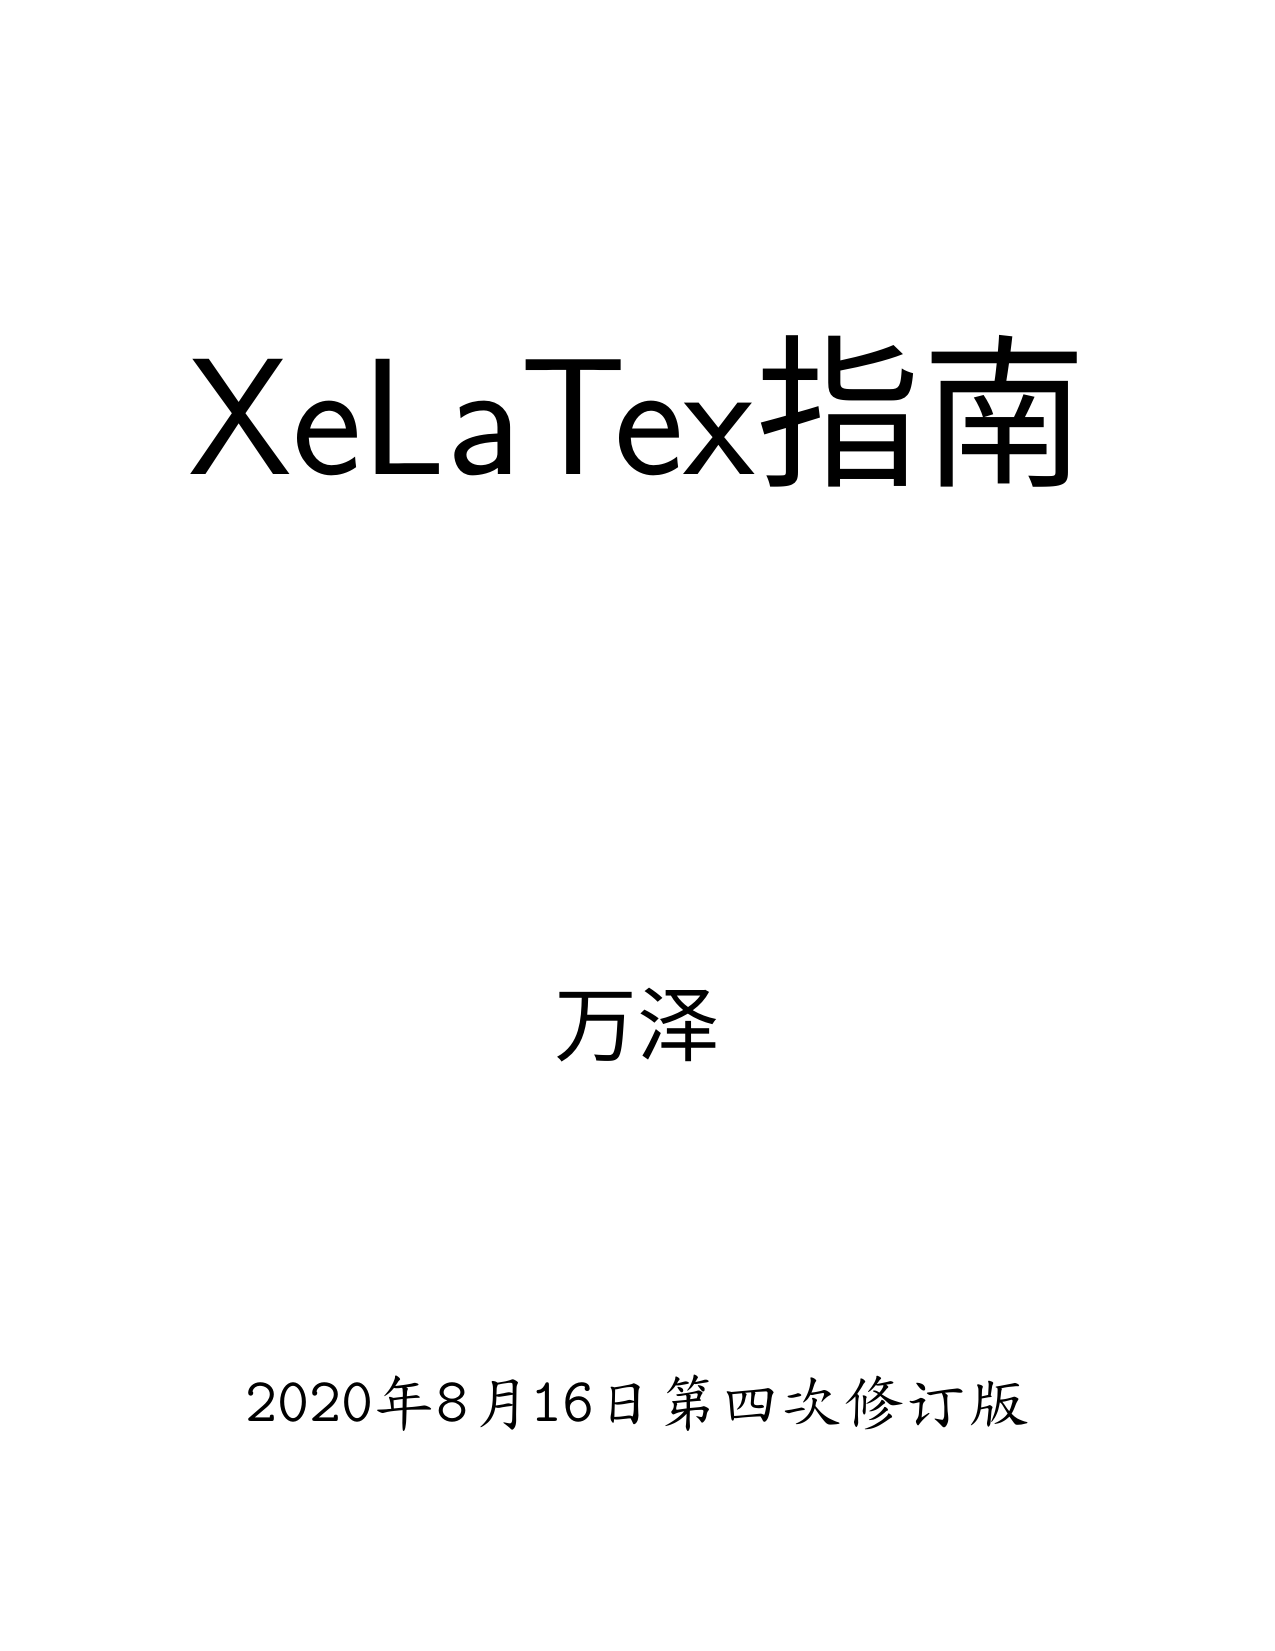
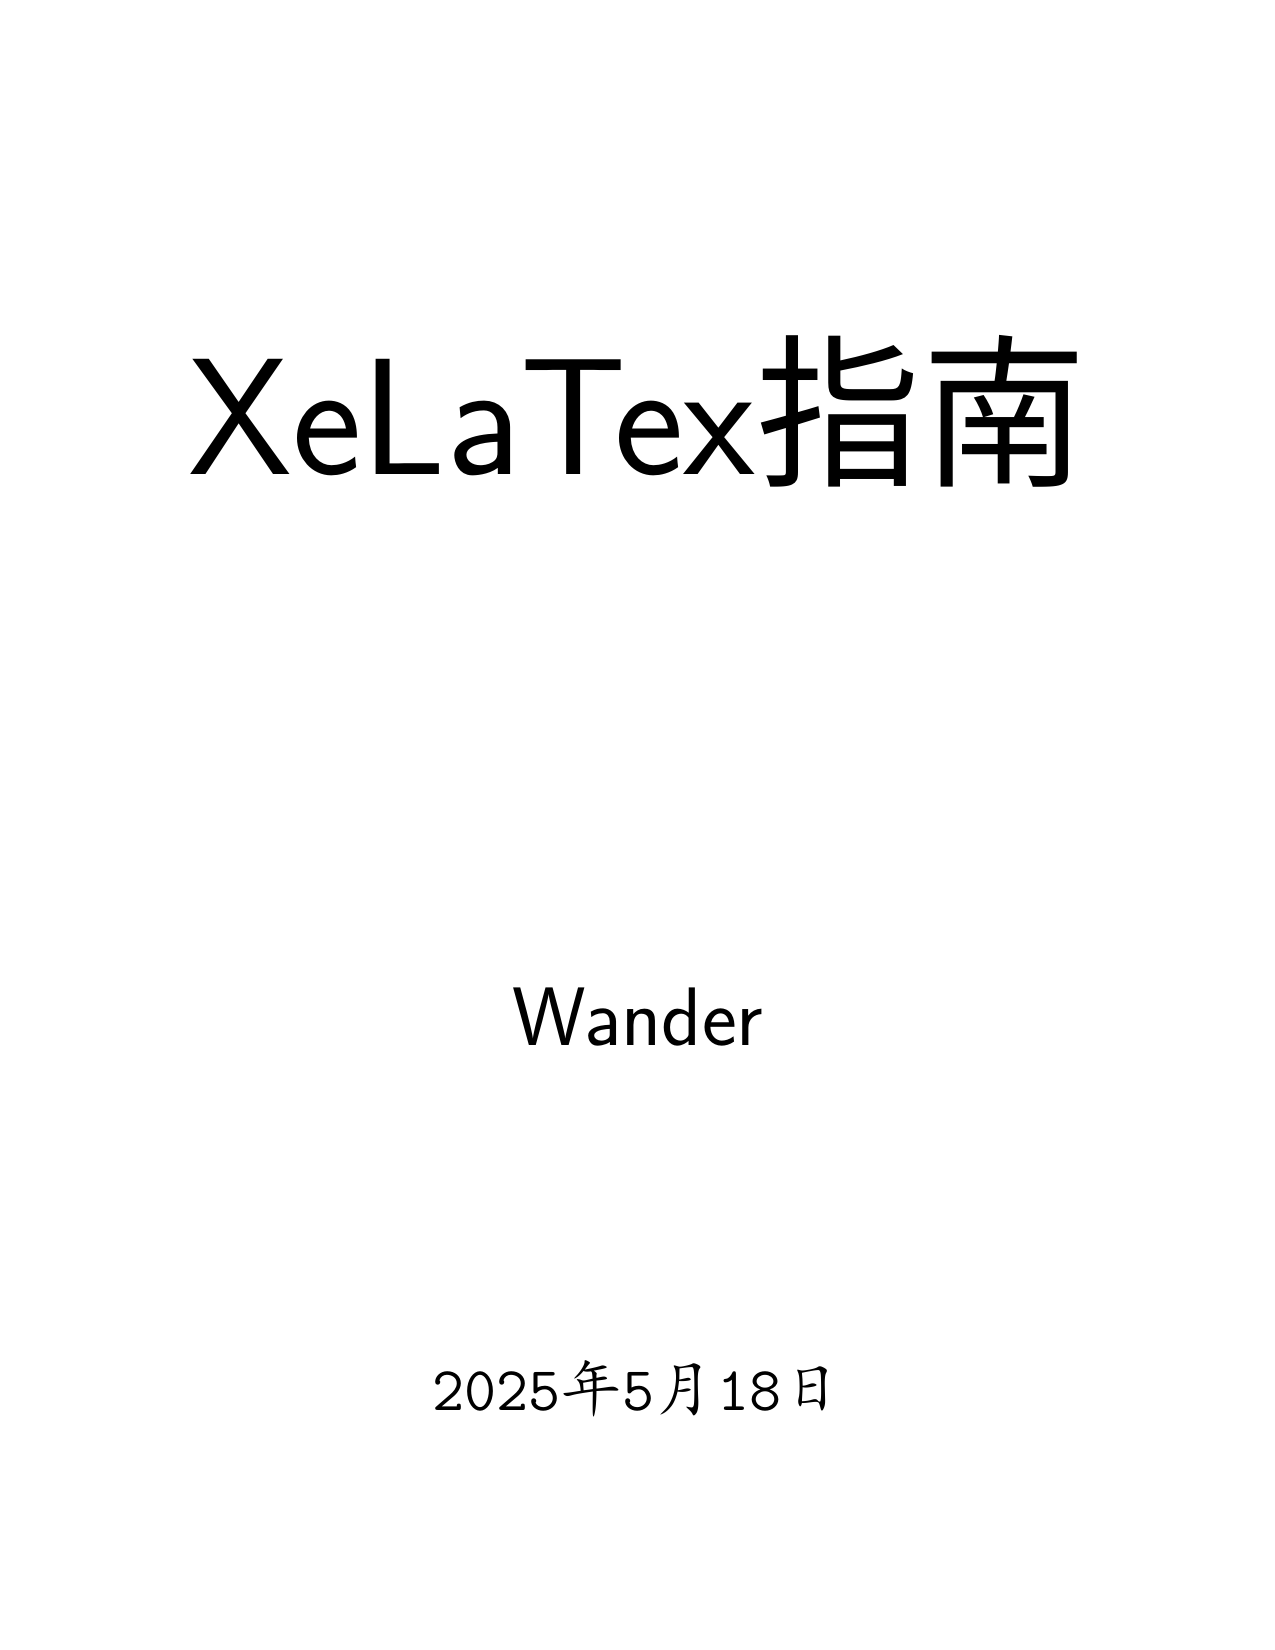
update

Changed region(s): [[0.1835, 0.8345, 0.7953, 0.8655], [0.3976, 0.5873, 0.5812, 0.6491]]

diff --git a/gallery/app_icon/app_icon2.tex b/gallery/app_icon/app_icon2.tex
@@ -1,14 +1,13 @@
 \documentclass[tikz,border=0pt]{standalone}
 
-\usepackage{fontspec} 
-
-\setmainfont[Mapping=tex-text]{DejaVu Serif}
-\setsansfont[Mapping=tex-text]{DejaVu Sans}
-\setmonofont[Mapping=tex-text]{DejaVu Sans Mono}
+\RequirePackage[CJKecglue={\hskip 0pt}]{xeCJK}
+\xeCJKsetup{PunctStyle=plain}
+\setCJKmainfont[ItalicFont=KaiTi]{Source Han Serif CN}
+\setCJKsansfont{Source Han Sans CN}
+\setCJKmonofont{KaiTi}
 
 \begin{document}
 \definecolor{OutlineColor}{HTML}{ffffff}
-\definecolor{TextColor}{HTML}{12130F}
 \definecolor{PageColor}{HTML}{ffffff}
 
 \tikzset{outline/.style={
@@ -19,25 +18,27 @@
 }}
 
 \tikzset{nodestyle/.style={
-    text=TextColor, 
+    text=brown!50, 
+    minimum height=1cm, minimum width=1cm, 
      font=\Huge\ttfamily\bfseries,
-     scale=1,
-     anchor =base,
+     scale=2,
+    % anchor =base,
     % fill  = gray,
 }}
 
 
-%\pagecolor{OutlineColor}  
+\pagecolor{blue!50}  
 
 \begin{tikzpicture}
 
 
-\draw[outline] (-1,-1) grid (1,1);
+%\draw[outline] (-2,-2) grid (2,2);
 %\fill[color=red] (0,0) circle (0.1) ; 
 
-\node (node1) at (-0.6,-0.3)[nodestyle] {L};
-\node (node1) at (0,-0.3)[nodestyle] {M};
-\node (node1) at (0.6,-0.3)[nodestyle] {H};
+\node (node1) at (-1,1)[nodestyle] {公};
+\node (node1) at (1,1)[nodestyle] {式};
+\node (node1) at (-1,-1)[nodestyle] {助};
+\node (node1) at (1,-1)[nodestyle] {手};
 
 
 \end{tikzpicture}

diff --git a/gallery/book_cover/book_cover.tex b/gallery/book_cover/book_cover.tex
@@ -2,15 +2,16 @@
 
 
 \RequirePackage{geometry}
-\RequirePackage[CJKecglue={\hskip 0pt}]{xeCJK}
+\RequirePackage[]{xeCJK}
 \xeCJKsetup{PunctStyle=plain}
-\setCJKmainfont[ItalicFont=TW-Kai]{Source Han Serif CN}
+\setCJKmainfont[ItalicFont=KaiTi]{Source Han Serif CN}
 \setCJKsansfont{Source Han Sans CN}
-\setCJKmonofont{TW-Kai}
+\setCJKmonofont{KaiTi}
 
 
 \begin{document}
 \makeatletter
+
 \renewcommand\title[1]{\def\@title{#1}}
 \newcommand\subtitle[1]{\def\@subtitle{#1}}
 \renewcommand\author[1]{\def\@author{#1}}
@@ -23,12 +24,13 @@
 \version{}
 
 \title{XeLaTex指南}
-\author{万泽}
+\author{Wander}
 %\subtitle{一个简单的封面}
 %\date{\today}
-\version{第四次修订版}
+\version{}
 
 \begin{titlepage}
+\xeCJKsetup{CJKecglue={\hskip 0pt plus 0.08\baselineskip}}
 \newgeometry{left=1cm,right=1cm,top=1cm,bottom=1cm}
 \begin{center}
 \vspace*{120pt}
@@ -45,7 +47,7 @@
 
 \end{center}
 \end{titlepage}
-
+\restoregeometry
 \makeatother
 
 \end{document}
